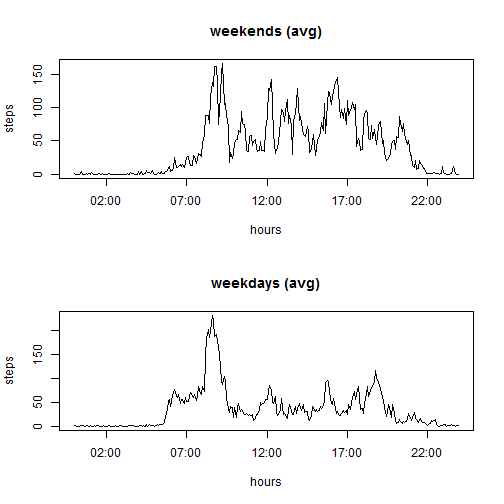
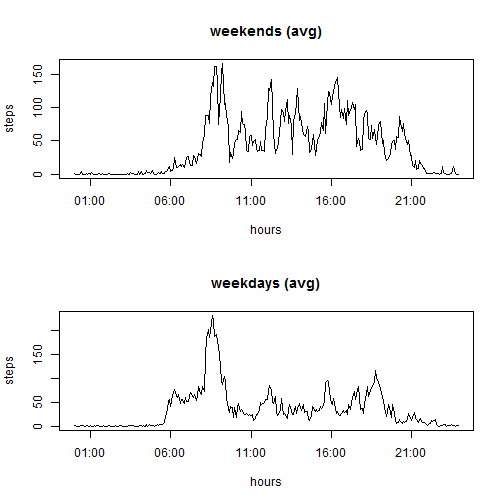
add downloading code and minor changes

diff --git a/Pa1_template.html b/Pa1_template.html
@@ -207,15 +207,20 @@ hr {
 
 <h3>Loading and preprocessing the data</h3>
 
-<p>The activity.zip file should be in your working directory. 
-(this code won&#39;t download it)
-First the code check if the .csv file exists, if not it will unzip it, 
-and then read it. No particular preprocessing seems necessary.</p>
+<p>First the code check if the .csv file exists, if not it will download it,
+unzip it, and then read it. 
+No particular preprocessing have been deemed necessary.</p>
 
 <p><em>The code will require the stringr and lubridate packages, you may need to install them.</em></p>
 
-<pre><code class="r">if(!file.exists(&quot;activity.csv&quot;)){unzip(zipfile=&quot;activity.zip&quot;)}
+<pre><code class="r">temp &lt;- tempfile(fileext = &quot;.zip&quot;)
+if(!file.exists(&quot;activity.csv&quot;)){
+url&lt;-&quot;http://d396qusza40orc.cloudfront.net/repdata%2Fdata%2Factivity.zip&quot;
+        download.file(url, destfile = temp)
+        unzip(temp)
+        }
 activityData &lt;- read.csv(&quot;activity.csv&quot;)
+unlink(temp)
 </code></pre>
 
 <h3>What is mean total number of steps taken per day?</h3>
@@ -237,7 +242,7 @@ hist(totalByDay$steps, breaks = 22,
      xlab = &quot;steps&quot;)
 </code></pre>
 
[2 lines of base64/hex data omitted]
 
 <p>The mean of the total number of steps taken per day is :</p>
 
@@ -276,7 +281,7 @@ plot(hm, avgSteps, type = &quot;l&quot;, main=&quot;average number of steps take
      xlab=&quot;hours&quot;, ylab=&quot;steps&quot;)
 </code></pre>
 
[2 lines of base64/hex data omitted]
 
 <p>We can verify that there&#39;s no missing values left :</p>
 
@@ -288,6 +293,14 @@ plot(hm, avgSteps, type = &quot;l&quot;, main=&quot;average number of steps take
 
 <p>On average accross all the days of the dataset, the 5-minute interval 
 which contains the  maximum number of steps is :</p>
+
+<pre><code class="r">names(avgSteps[which.max(avgSteps)])
+</code></pre>
+
+<pre><code>## [1] &quot;835&quot;
+</code></pre>
+
+<p>or to put it more nicely :</p>
 
 <pre><code class="r">library(stringr)
 a &lt;- sprintf(&quot;%04d&quot;, as.numeric(names(avgSteps[which.max(avgSteps)])))
@@ -339,7 +352,7 @@ hist(total3, breaks = 22,
      xlab = &quot;steps&quot;)
 </code></pre>
 
[2 lines of base64/hex data omitted]
 
 <p>The new mean is :</p>
 
@@ -426,7 +439,7 @@ plot(hm, avgWday$steps, type = &quot;l&quot;, ylab=&quot;steps&quot;, xlab=&quot
              main = &quot;weekdays (avg)&quot;)
 </code></pre>
 
[2 lines of base64/hex data omitted]
 
 <p>This person seems more active during the weekends.</p>
 
